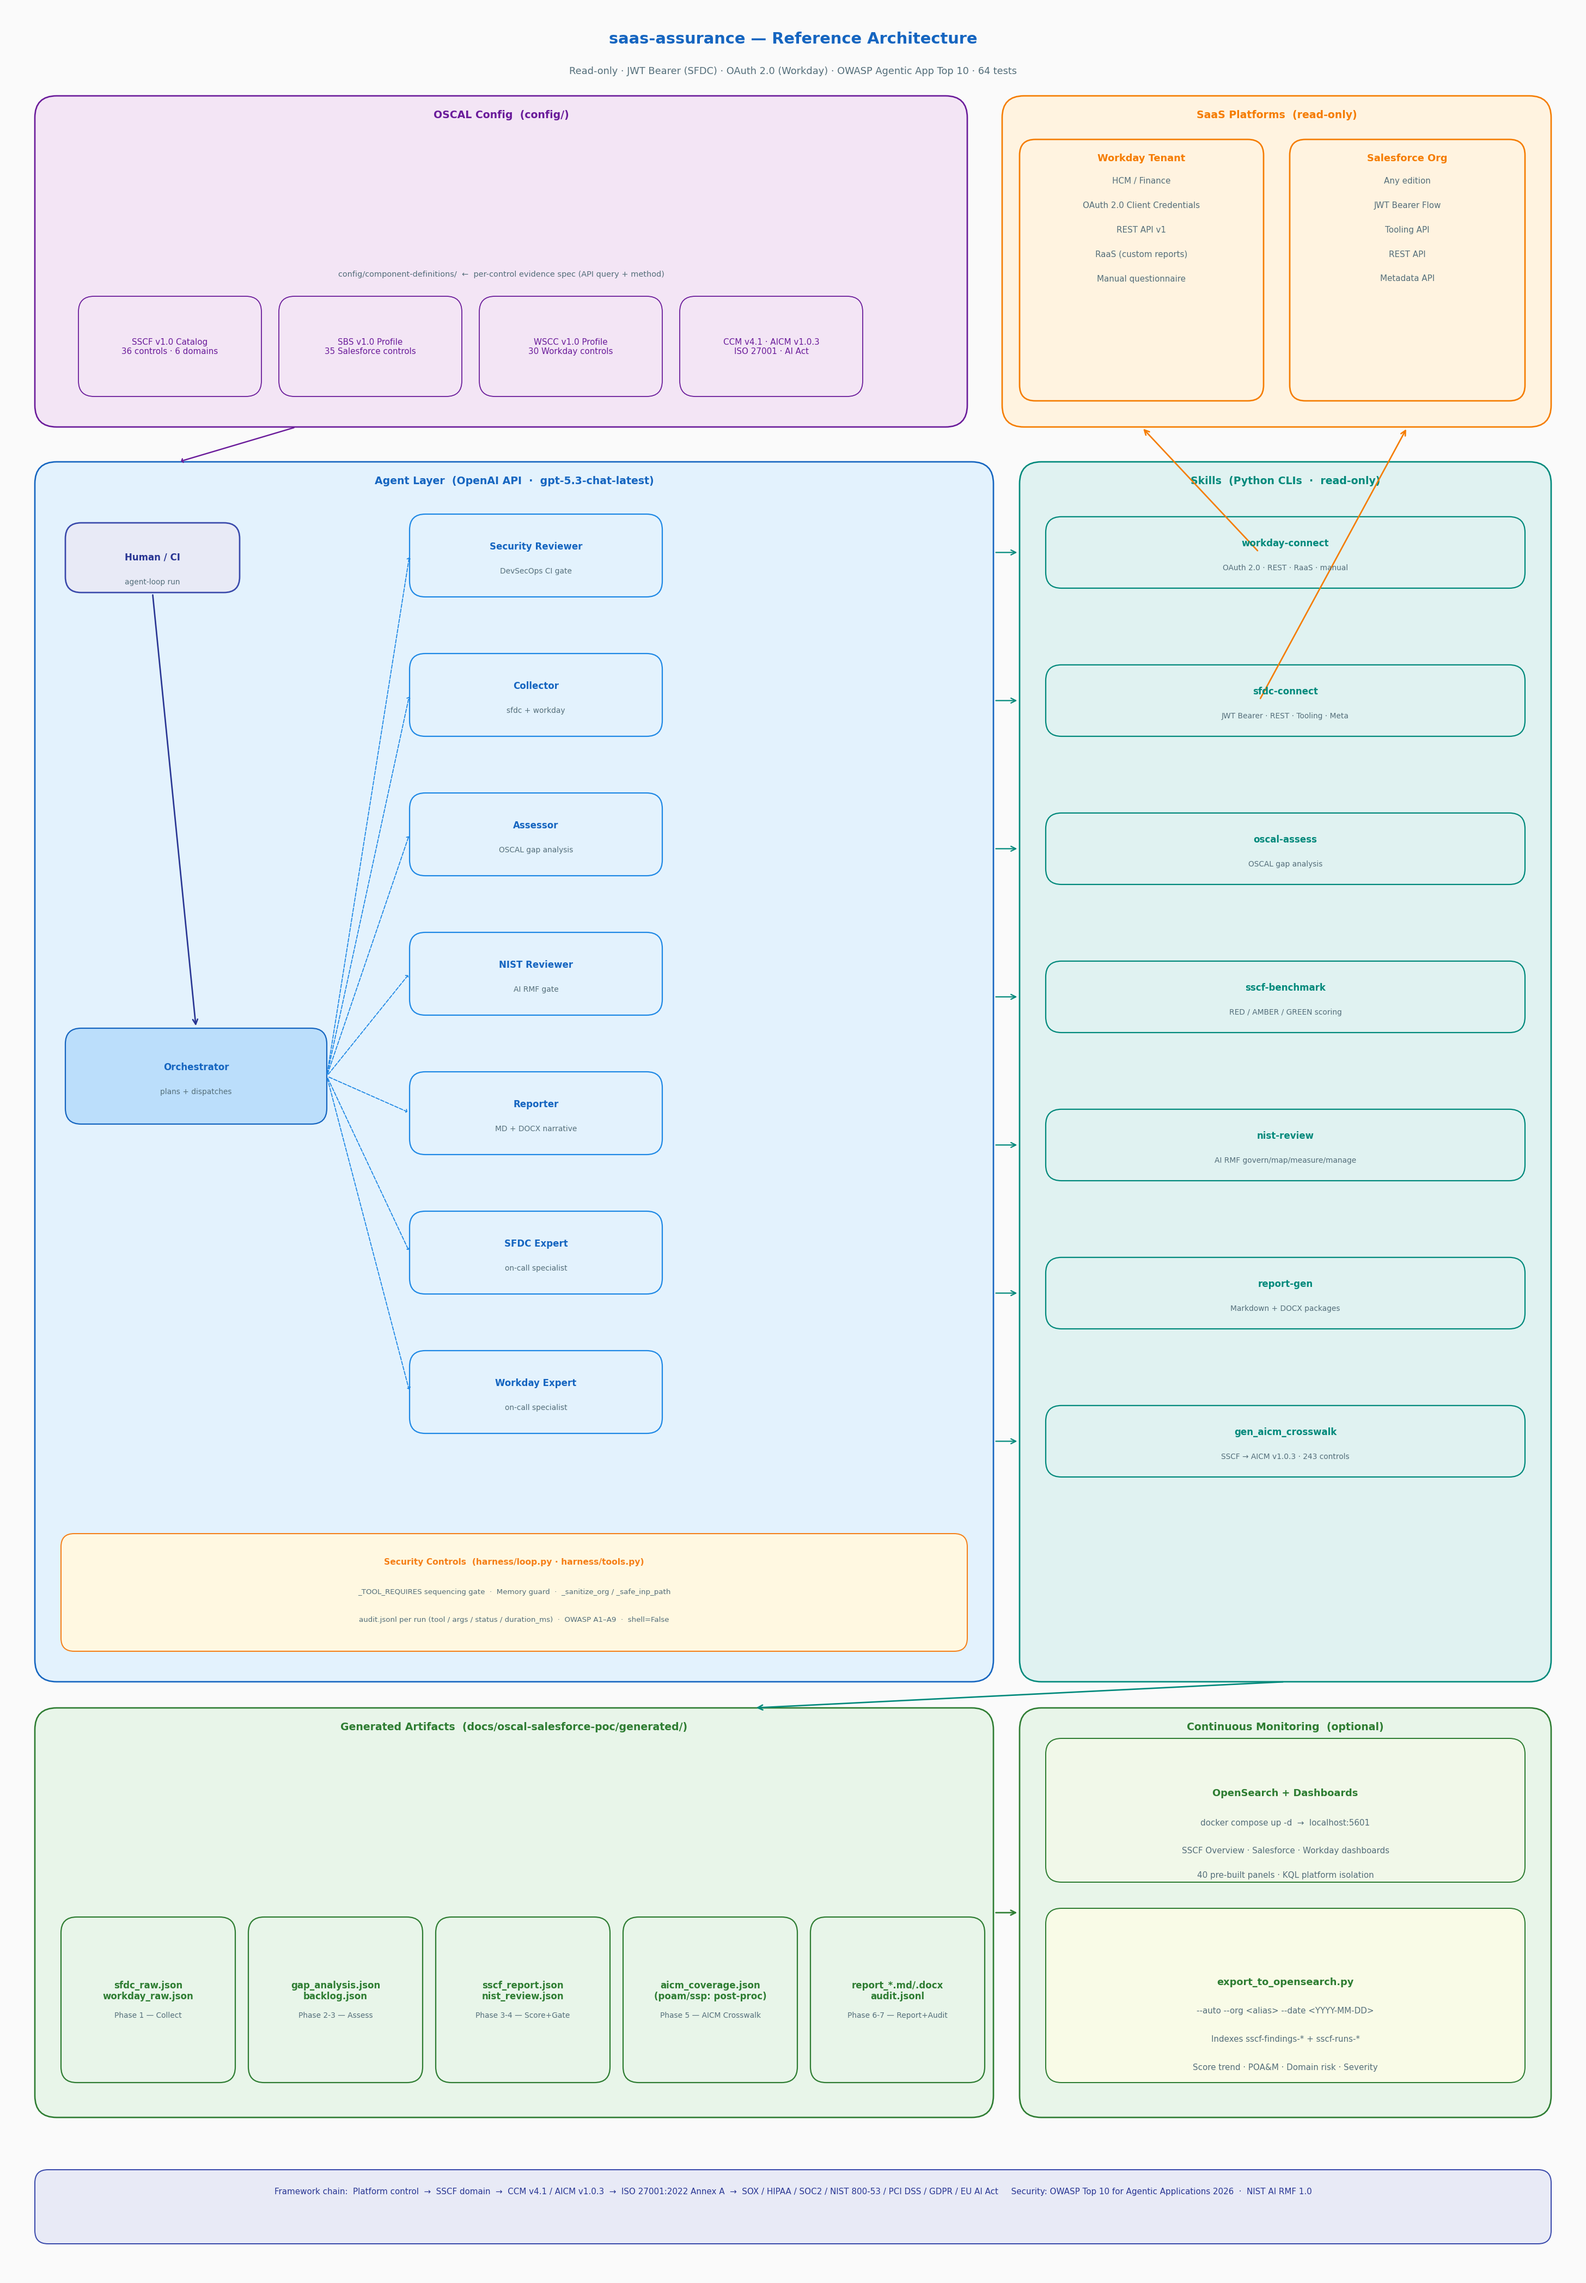
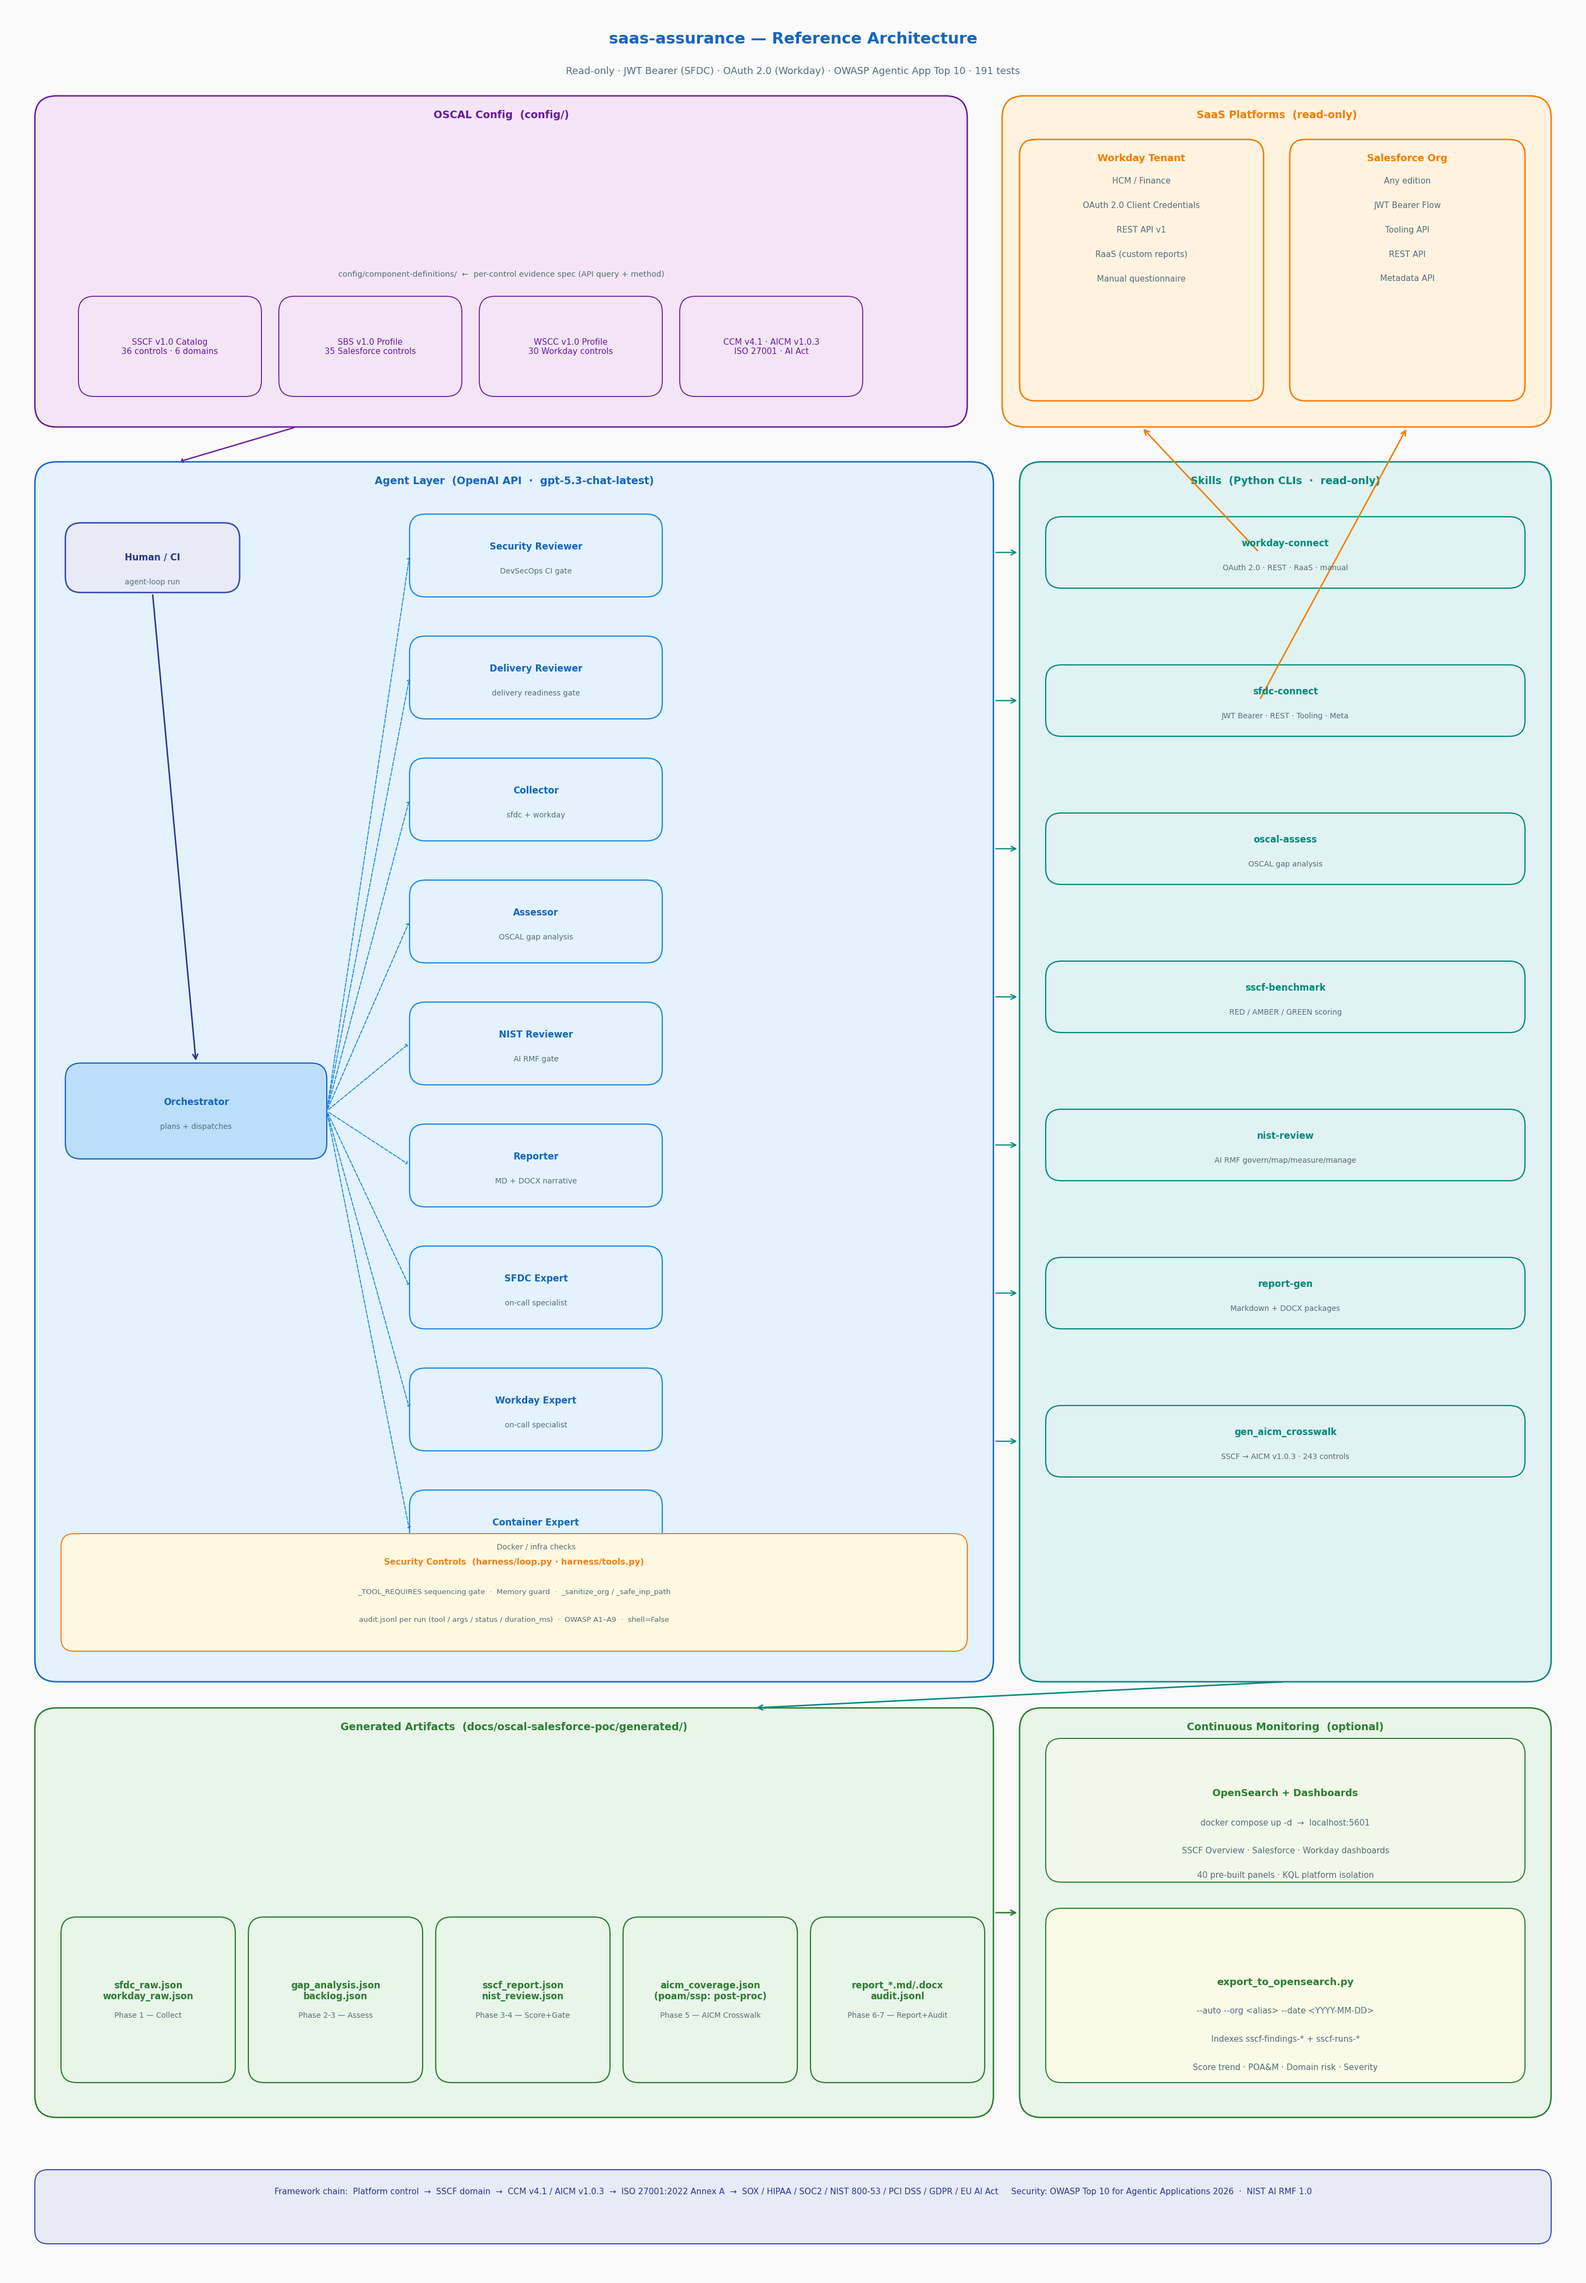
docs: update reference architecture diagram — 10 agents, 191 tests
- Add Delivery Reviewer and Container Expert to agent layer
  (9 sub-agents + Orchestrator = 10 total)
- Update test count subtitle: 64 → 191
- Tighten agent box spacing to 1.4 units to fit all agents

diff --git a/scripts/gen_architecture_png.py b/scripts/gen_architecture_png.py
@@ -131,7 +131,7 @@ label(9, TOP - 0.05, "saas-assurance — Reference Architecture", size=13, bold=
 label(
     9,
     TOP - 0.42,
-    "Read-only · JWT Bearer (SFDC) · OAuth 2.0 (Workday) · OWASP Agentic App Top 10 · 64 tests",
+    "Read-only · JWT Bearer (SFDC) · OAuth 2.0 (Workday) · OWASP Agentic App Top 10 · 191 tests",
     size=8,
     color=C_GREY,
 )
@@ -205,18 +205,20 @@ section(
 )
 
 # Orchestrator — centrepiece
-ORC_X, ORC_Y, ORC_W, ORC_H = 0.65, 13.2, 3.0, 1.1
+ORC_X, ORC_Y, ORC_W, ORC_H = 0.65, 12.8, 3.0, 1.1
 agent_box(ORC_X, ORC_Y, ORC_W, ORC_H, "Orchestrator", "plans + dispatches", fc="#BBDEFB", ec=C_BLUE_DARK)
 
-# Sub-agents column
+# Sub-agents column  (9 agents, 1.4-unit spacing)
 sub_agents = [
     ("Security Reviewer", "DevSecOps CI gate", 19.8),
-    ("Collector", "sfdc + workday", 18.2),
-    ("Assessor", "OSCAL gap analysis", 16.6),
-    ("NIST Reviewer", "AI RMF gate", 15.0),
-    ("Reporter", "MD + DOCX narrative", 13.4),
-    ("SFDC Expert", "on-call specialist", 11.8),
-    ("Workday Expert", "on-call specialist", 10.2),
+    ("Delivery Reviewer", "delivery readiness gate", 18.4),
+    ("Collector", "sfdc + workday", 17.0),
+    ("Assessor", "OSCAL gap analysis", 15.6),
+    ("NIST Reviewer", "AI RMF gate", 14.2),
+    ("Reporter", "MD + DOCX narrative", 12.8),
+    ("SFDC Expert", "on-call specialist", 11.4),
+    ("Workday Expert", "on-call specialist", 10.0),
+    ("Container Expert", "Docker / infra checks", 8.6),
 ]
 for name, sub, y_pos in sub_agents:
     agent_box(4.6, y_pos - 0.55, 2.9, 0.95, name, sub)
@@ -335,7 +337,7 @@ label(SEC6_X + 3.05, SEC6_Y + 0.57, "Score trend · POA&M · Domain risk · Seve
 # ARROWS between sections
 # ─────────────────────────────────────────────────────────────────────────────
 
-# Orchestrator ↔ skills (right)
+# Orchestrator ↔ skills (right)  — arrows align with skill_box y-centres
 for y_pos in [19.8 - 0.04, 18.1 - 0.04, 16.4 - 0.04, 14.7 - 0.04, 13.0 - 0.04, 11.3 - 0.04, 9.6 - 0.04]:
     arrow(SEC3_X + SEC3_W, y_pos, SEC4_X, y_pos, color=C_TEAL, lw=1.0)
 
